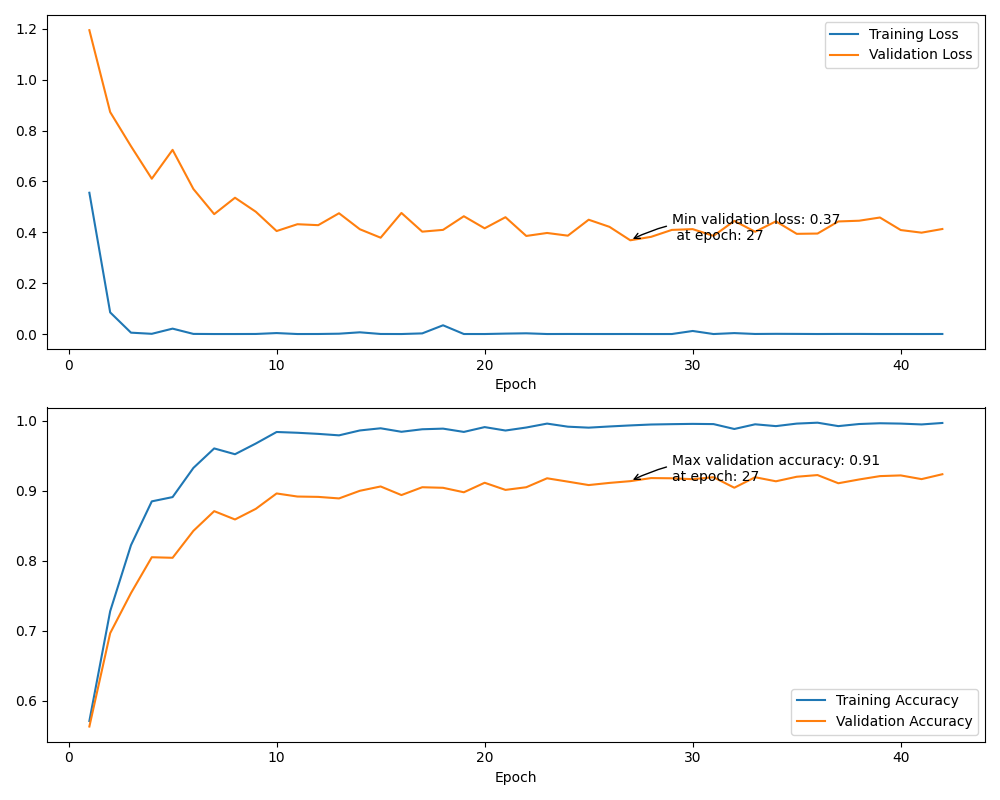
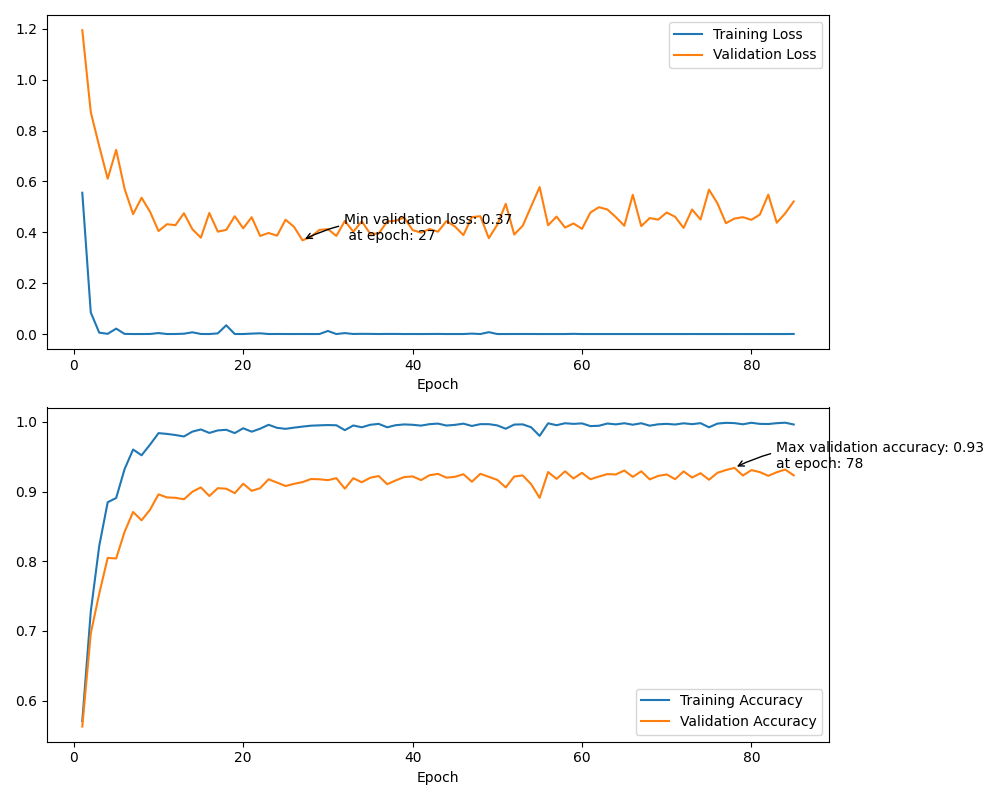
Updated Readme

diff --git a/ReadMe.md b/ReadMe.md
@@ -1,47 +1,50 @@
 # Music Subgenre Classifier
-![Screenshot from 2023-04-27 11-31-00.png](ReadMe%2FScreenshot%20from%202023-04-27%2011-31-00.png)
-![Screenshot from 2023-04-27 11-30-36.png](ReadMe%2FScreenshot%20from%202023-04-27%2011-30-36.png)
+![Screenshot 2023-04-28 at 12-38-18 Music Subgenre Classifier.png](ReadMe%2FScreenshot%202023-04-28%20at%2012-38-18%20Music%20Subgenre%20Classifier.png)
+![Screenshot 2023-04-28 at 12-38-09 Music Subgenre Classifier.png](ReadMe%2FScreenshot%202023-04-28%20at%2012-38-09%20Music%20Subgenre%20Classifier.png)
+
 Dataset includes 6,887 Full length tracks (4800+ tracks from FMA Dataset (https://github.com/mdeff/fma)
 Unbalanced Dataset
 ### 12 Subgenres:
-    "Black Metal",
-    "Death Metal",
-    "Dreampop",
-    "Heavy Metal",
-    "House",
-    "Post rock",
-    "Progressive rock",
-    "Punk rock",
-    "Synthwave",
-    "Techno",
-    "Thrash metal",
-    "Trance"
+    Black metal (302 tracks),
+    Death metal (395 tracks),
+    Dreampop/Shoegaze (853 tracks),
+    Heavy metal (203 tracks),
+    House (686 tracks),
+    Post rock (207 tracks),
+    Progressive rock (762 tracks),
+    Punk rock (762 tracks),
+    Synthwave (209 tracks),
+    Techno" (762 tracks),
+    Thrash metal (205 tracks),
+    Trance (200 tracks)
 
 Alternative Rock and Indie Rock subgenres removed due to perceived ambiguity in subgenre features by author
 
 
-CRNN model
+### CRNN model predictions results
 ![training_log.txt_Loss.png](CRNN%2FCRNN_Final%2Ftraining_log.txt_Loss.png)
-![song level prediction_confusion_matrix_voting.png](CRNN%2FCRNN_Final%2Fsong%20level%20prediction_confusion_matrix_voting.png)
+![song level prediction: lowest val loss_confusion_matrix_voting.png](CRNN%2FCRNN_Final%2Fsong%20level%20prediction%3A%20lowest%20val%20loss_confusion_matrix_voting.png)
 #### Classification Report:
-                      precision    recall  f1-score   support
+                  precision    recall  f1-score   support
 
-         Black Metal       0.43      0.18      0.25        17
-         Death Metal       0.50      0.75      0.60        16
-            Dreampop       0.55      0.45      0.49        49
-         Heavy Metal       0.48      0.86      0.62        28
-               House       0.64      0.78      0.70        54
-           Post rock       0.80      0.20      0.32        20
-    Progressive rock       0.13      0.33      0.19         9
-           Punk rock       0.83      0.42      0.56        45
-           Synthwave       0.86      0.50      0.63        24
-              Techno       0.33      0.49      0.39        35
-        Thrash metal       0.69      0.75      0.72        12
-              Trance       0.90      0.50      0.64        18
+         Black metal       0.21      0.18      0.19        17
+         Death metal       0.40      0.62      0.49        16
+            Dreampop       0.52      0.29      0.37        49
+         Heavy metal       0.45      0.68      0.54        28
+               House       0.69      0.74      0.71        54
+           Post rock       0.43      0.15      0.22        20
+    Progressive rock       0.08      0.22      0.11         9
+           Punk rock       0.77      0.53      0.63        45
+           Synthwave       0.68      0.54      0.60        24
+              Techno       0.39      0.60      0.47        35
+        Thrash metal       0.80      0.67      0.73        12
+              Trance       0.86      0.67      0.75        18
 
-            accuracy                           0.54       327
-           macro avg       0.59      0.52      0.51       327
-        weighted avg       0.61      0.54      0.54       327
+            accuracy                           0.52       327
+           macro avg       0.52      0.49      0.49       327
+        weighted avg       0.56      0.52      0.52       327
+
+
 # How to train:
 Audio Files should be enumerated per genre/subgenre and renamed to the following format:
 SubgenreTrackCounter_Subgenre_(FileName).extension
